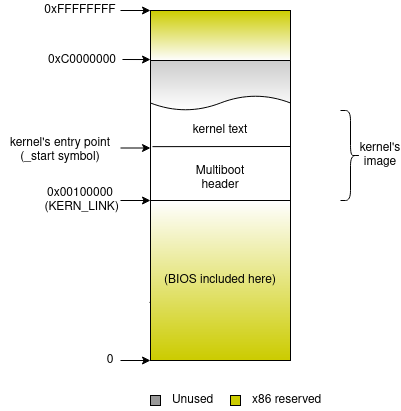
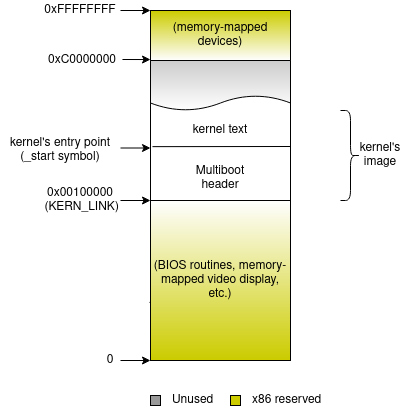
ble

Changed region(s): [[0.389, 0.6131, 0.7182, 0.7299], [0.419, 0.0584, 0.6883, 0.1168]]

diff --git a/README.md b/README.md
@@ -54,13 +54,49 @@ are linked together, using *LD*, into a statically-linked ELF executable file:
 The "-Map,System.map" option creates a file called "System.map" containing all the symbols from the object files.\
 Regarding the "-lgcc" library inclusion, see [Libgcc](https://wiki.osdev.org/Libgcc).
 
+## x86 memory types
+
+On an x86 PC we have two kind of addresses: [virtual/logical and physical](https://www.geeksforgeeks.org/logical-and-physical-address-in-operating-system/)
+(assume virtual and logical is the same here).\
+Virtual addresses are the ones a program uses. A program cannot directly access a physical address!\
+Physical addresses are the ones that can be accessed by the hardware, like RAM memory, devices, BIOS, and so on.\
+
+On the one hand, an x86 machine has a 32-bit CPU and so it can address up to 4 GiB of *virtual* address.\
+On the other hand, there is a physical address space that doesn't need to be the same size. It includes the RAM memory but
+also memory-mapped devices, the BIOS routines and hardwired addresses like the one used for booting up the computer.
+
+The x86 CPU only knows about virtual addresses (don't confuse it with [virtual memory](https://en.wikipedia.org/wiki/Virtual_memory)),
+so no program (even the kernel) can directly access a physical address.\
+XXX
+XXXX
+XXXXX
+
+...
+
+
+32-bit code.
+virtual physical address
+
 ## How do pieces play together?
 
-https://wiki.osdev.org/Memory_Map_(x86)
+The [x86 memory model](https://wiki.osdev.org/Memory_Map_(x86)) reserves some physical memory regions for special uses
+(physical memory is *not* the same as RAM memory).\
+The region that starts at 0xC0000000 (3 GiB) contains some memory-mapped devices.\
+The region that extends through the first MiB of physical memory does contain the BIOS routines, the memory-mapped video 
+display, etc. It also contains some free memory slots we choose to ignore for simplicity. Let's place the kernel 
+at 1 MiB, instead. But... 1 MiB of what?
+
+### Linker's VIRTUAL vs LOAD address
+
+The linker differentiates between the address a given section runs at (the virtual address) and the address that section
+is loaded -or programmed, or flashed- at (the load address).\
+For now let both addresses to match, so the kernel "think" it runs at 1 MiB virtual address and the bootloader loads the 
+kernel's image at 1 MiB of physical memory. In later stages we will benefit from this feature while switching to a more
+flexible memory layout.
 
 ![boot_args](pics/physical_layout.png)
 
-[Figure: Kernel physical layout]
+[Figure: Kernel physical memory layout]
 
 
 ## BLE
@@ -153,11 +189,15 @@ On the other hand, it offers different output artifact formats, Makefile include
 
 * https://en.wikipedia.org/wiki/Mebibyte
 * https://wiki.osdev.org/Bare_Bones
+* https://os.phil-opp.com/multiboot-kernel/
 * http://wiki.osdev.org/Why_do_I_need_a_Cross_Compiler%3F
 * http://wiki.osdev.org/GCC_Cross-Compiler
 * https://wiki.osdev.org/Libgcc
 * http://wiki.osdev.org/LD
+* https://ravikiranb.com/articles/linker-script/
 * http://wiki.osdev.org/Memory_Map_(x86)
+* https://en.wikipedia.org/wiki/Virtual_memory
+* https://www.geeksforgeeks.org/logical-and-physical-address-in-operating-system/
 * https://wiki.osdev.org/Interrupts
 * https://wiki.osdev.org/Non_Maskable_Interrupt
 * http://wiki.osdev.org/Multiboot
